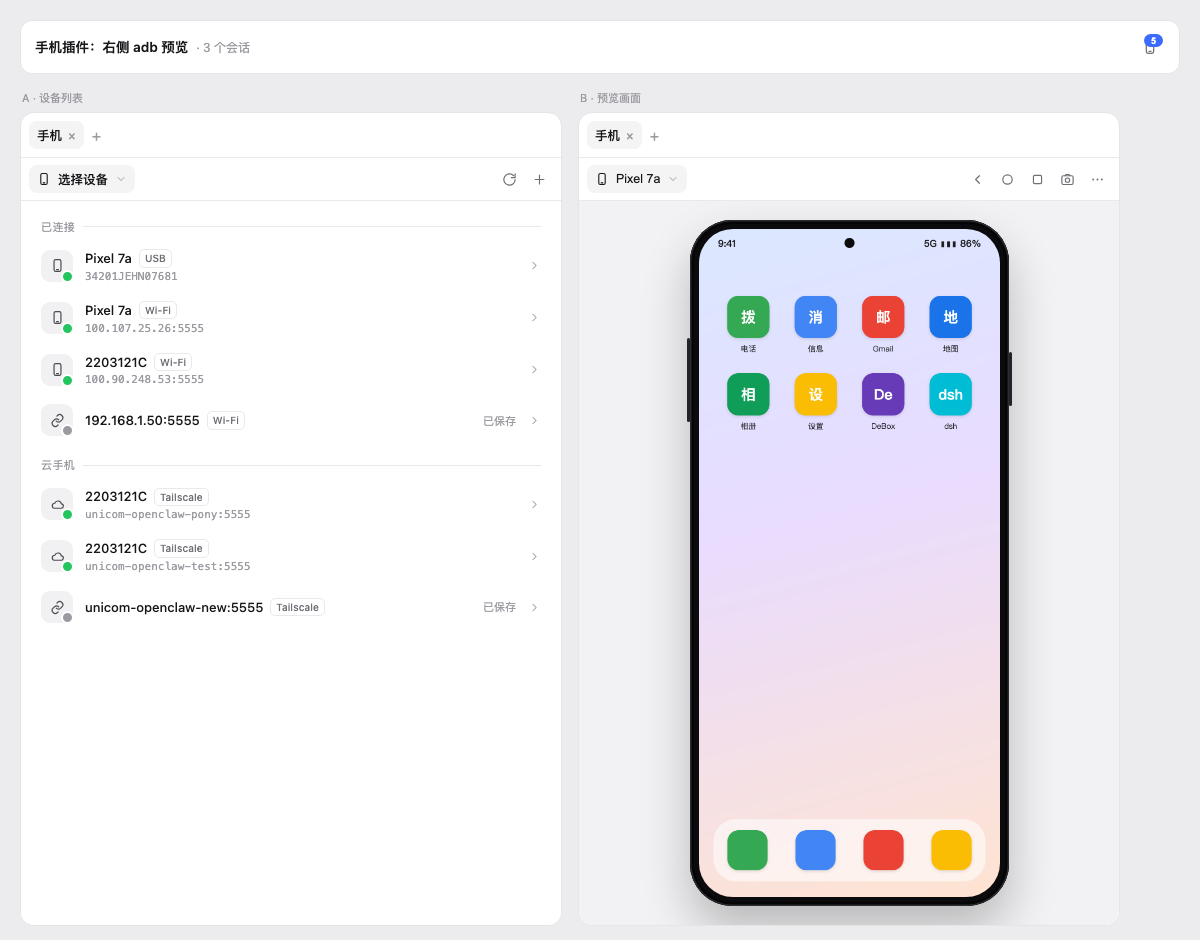
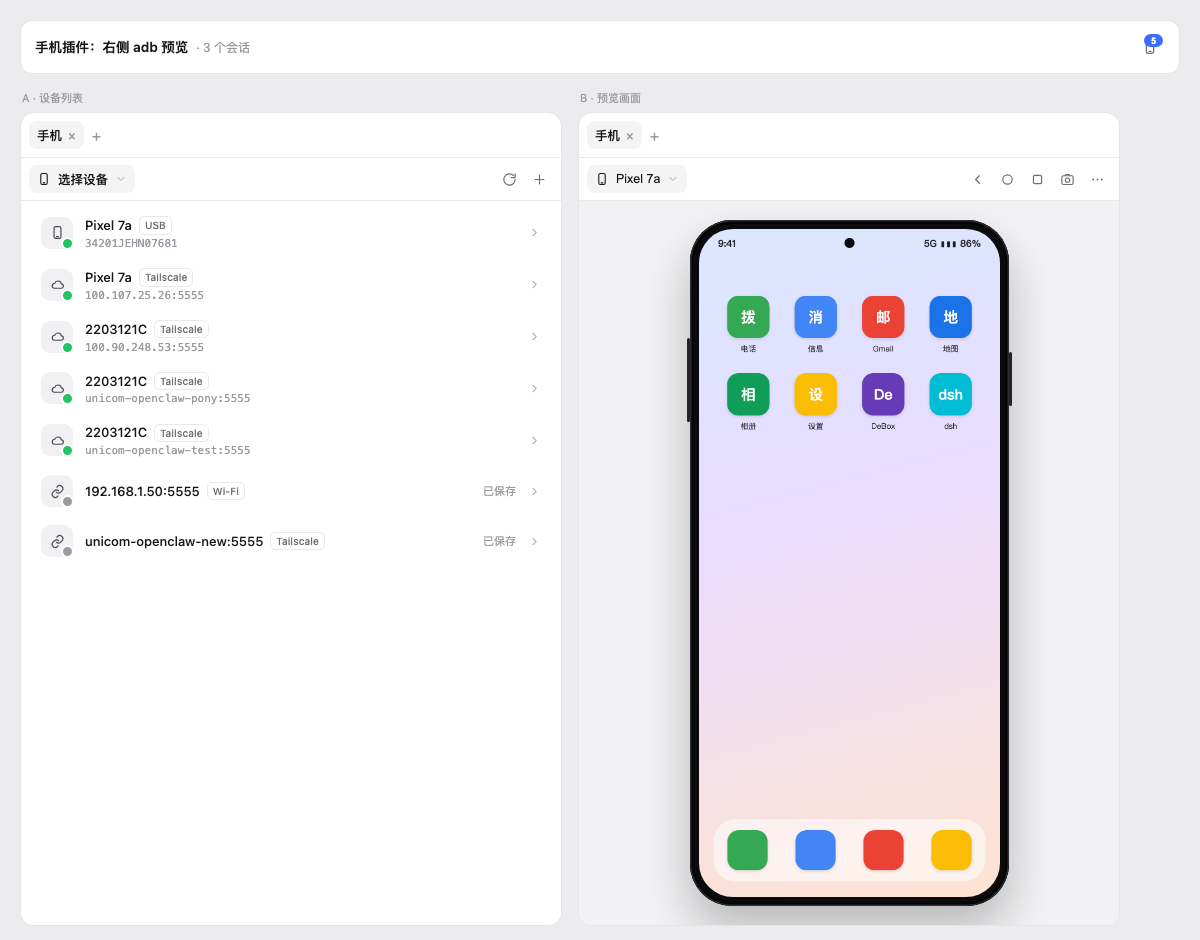
refactor(ui): 设备列表改为平铺，不再按云手机分组
- classifyDevice 的 cloud 改为 tailscale（unicom-openclaw-* / *.ts.net / 100.64.0.0/10）
- 列表只保留连接方式标签（USB / Wi-Fi / Tailscale / emulator），已连接在前、已保存在后
- 测试 fixture 与文档同步

diff --git a/lib/client.js b/lib/client.js
@@ -351,14 +351,14 @@ window.__ModuleLoader__.load({
     }
 
     function kindForAddress(address) {
-      if (/^unicom-openclaw-|\.ts\.net/.test(address)) return 'cloud'
-      if (/^100\.(6[4-9]|[7-9]\d|1[01]\d|12[0-7])\./.test(address)) return 'cloud'
+      if (/^unicom-openclaw-|\.ts\.net/.test(address)) return 'tailscale'
+      if (/^100\.(6[4-9]|[7-9]\d|1[01]\d|12[0-7])\./.test(address)) return 'tailscale'
       if (address.includes(':')) return 'wifi'
       return 'usb'
     }
 
-    function kindLabel(kind, t) {
-      if (kind === 'cloud') return 'Tailscale'
+    function kindLabel(kind) {
+      if (kind === 'tailscale') return 'Tailscale'
       if (kind === 'wifi') return 'Wi-Fi'
       if (kind === 'emulator') return 'emulator'
       return 'USB'
@@ -375,61 +375,50 @@ window.__ModuleLoader__.load({
     // ---------------------------------------------------------------- components
     function DeviceRows(props) {
       const { t, devices, selected, onSelect, compact } = props
-      const connected = devices.filter((device) => device.kind !== 'cloud')
-      const cloud = devices.filter((device) => device.kind === 'cloud')
-      const groups = [
-        { key: 'connected', label: t('connected'), items: connected },
-        { key: 'cloud', label: t('cloud'), items: cloud },
-      ].filter((group) => group.items.length > 0)
+      const order = { usb: 0, emulator: 1, wifi: 2, tailscale: 3 }
+      const sorted = [...devices].sort((a, b) => {
+        const bySaved = (a.saved ? 1 : 0) - (b.saved ? 1 : 0)
+        if (bySaved !== 0) return bySaved
+        return (order[a.kind] ?? 9) - (order[b.kind] ?? 9)
+      })
       return h(
         'div',
         { className: compact ? 'dph-menu-list' : 'dph-list' },
-        groups.map((group) =>
+        sorted.map((device) =>
           h(
-            'div',
-            { key: group.key },
-            h('div', { className: 'dph-group' }, group.label),
-            group.items.map((device) =>
-              h(
-                'button',
-                {
-                  key: device.serial,
-                  type: 'button',
-                  className: 'dph-row' + (device.serial === selected ? ' sel' : ''),
-                  onClick: () => onSelect(device),
-                },
-                h(
-                  'span',
-                  { className: 'dph-av' },
-                  h(Icon, { name: device.saved ? 'link' : device.kind === 'cloud' ? 'cloud' : 'phone', size: 15 }),
-                  h('span', {
-                    className:
-                      device.state === 'device'
-                        ? 'on'
-                        : device.state === 'unauthorized'
-                          ? 'on warn'
-                          : 'on off',
-                  }),
-                ),
-                h(
-                  'span',
-                  { className: 'dph-meta' },
-                  h(
-                    'span',
-                    { className: 'dph-model' },
-                    device.model,
-                    h('span', { className: 'dph-tag' }, kindLabel(device.kind, t)),
-                  ),
-                  device.serial && device.serial !== device.model
-                    ? h('span', { className: 'dph-serial' }, device.serial)
-                    : null,
-                ),
-                stateLabel(device.state, t)
-                  ? h('span', { className: 'dph-state' + (device.state === 'saved' ? ' saved' : '') }, stateLabel(device.state, t))
-                  : null,
-                h(Icon, { name: 'right', size: 13, className: 'dph-chev' }),
-              ),
+            'button',
+            {
+              key: device.serial,
+              type: 'button',
+              className: 'dph-row' + (device.serial === selected ? ' sel' : ''),
+              onClick: () => onSelect(device),
+            },
+            h(
+              'span',
+              { className: 'dph-av' },
+              h(Icon, { name: device.saved ? 'link' : device.kind === 'tailscale' ? 'cloud' : 'phone', size: 15 }),
+              h('span', {
+                className:
+                  device.state === 'device' ? 'on' : device.state === 'unauthorized' ? 'on warn' : 'on off',
+              }),
             ),
+            h(
+              'span',
+              { className: 'dph-meta' },
+              h(
+                'span',
+                { className: 'dph-model' },
+                device.model,
+                h('span', { className: 'dph-tag' }, kindLabel(device.kind)),
+              ),
+              device.serial && device.serial !== device.model
+                ? h('span', { className: 'dph-serial' }, device.serial)
+                : null,
+            ),
+            stateLabel(device.state, t)
+              ? h('span', { className: 'dph-state' + (device.state === 'saved' ? ' saved' : '') }, stateLabel(device.state, t))
+              : null,
+            h(Icon, { name: 'right', size: 13, className: 'dph-chev' }),
           ),
         ),
       )

diff --git a/lib/adb.js b/lib/adb.js
@@ -83,12 +83,12 @@ function isCgnatSerial(serial) {
   return first === 100 && second >= 64 && second <= 127
 }
 
-/** 按 serial / adb 属性给设备分类，客户端只做分组展示。 */
+/** 按 serial / adb 属性给设备标注连接方式，客户端只显示标签，不做分组。 */
 export function classifyDevice(serial, props = {}) {
   if (props.usb) return 'usb'
   if (/^emulator-\d+$/.test(serial)) return 'emulator'
-  if (/^unicom-openclaw-|\.ts\.net/.test(serial)) return 'cloud'
-  if (isCgnatSerial(serial)) return 'cloud'
+  if (/^unicom-openclaw-|\.ts\.net/.test(serial)) return 'tailscale'
+  if (isCgnatSerial(serial)) return 'tailscale'
   if (serial.includes(':')) return 'wifi'
   return 'usb'
 }

diff --git a/README.md b/README.md
@@ -13,13 +13,13 @@ DSH Web 插件：在右侧栏预览已连接的 Android 设备，点画面就是
 ## 功能
 
 - **会话头部手机图标**：点一下展开右侧栏，角标显示在线设备数。
-- **设备列表**：USB / Wi-Fi / 模拟器 / 云手机分组，状态点区分 `device` / `unauthorized` / `offline`。
+- **设备列表**：平铺一列，不按手机类型分组；每台只标连接方式（USB / Wi-Fi / Tailscale / emulator），状态点区分 `device` / `unauthorized` / `offline` / `已保存`。
 - **预览**：设备画面按右侧栏高度等比缩放，带机身 bezel；顶栏只有「设备下拉 + 返回/主页/多任务/截图/更多」。
 - **点按**：点击 = `tap`，拖拽 = `swipe`（坐标按截图实际像素换算）。
 - **连接**：`adb connect <ip>:<port>`（无线调试、Tailscale 云手机）；连接过的目标自动记到 `$DSH_HOME/phone/targets.json`，未连接时也显示在列表里，点一下就直接连。
 - **诊断**：`⋯ → adb 诊断` 看 adb 路径/版本、每台设备状态，一键复制。
 - **更多**：电源、旋转、重新连接、adb 诊断、浮窗打开、复制 serial、断开。
-- Tailscale 的 `100.64.0.0/10` 地址会归到「云手机」分组，不再混进 Wi-Fi。
+- 连接方式由 serial 判断：`usb:` 属性 → USB；`unicom-openclaw-*` 或 `100.64.0.0/10` → Tailscale；其余带端口 → Wi-Fi。
 - 没有分辨率/网速元数据栏，没有文字输入框。
 
 ## 安装

diff --git a/CHANGELOG.md b/CHANGELOG.md
@@ -11,6 +11,7 @@
 - Host：`/phone/*` 路由 + `connection.admit` 认证围栏；serial 白名单；execFile 无 shell
 - 常用连接目标：连接成功自动记录（`$DSH_HOME/phone/targets.json`，最近 12 条），未连接目标也显示在列表，点击直接 `adb connect`
 - `⋯ → adb 诊断`：adb 路径/版本、每台设备状态，可复制
-- 分类修正：`100.64.0.0/10`（Tailscale CGNAT）归到云手机分组
+- 列表改为平铺，不再按「云手机」分组；只保留连接方式标签（USB / Wi-Fi / Tailscale / emulator）
+- Tailscale 判定：`unicom-openclaw-*`、`*.ts.net`、`100.64.0.0/10`
 - 真机验证：Pixel 7a 上 tap / swipe / 返回 / 主页 均已实测（点开「网络和互联网」「关于本机」，列表滚动）
 - 测试：`npm run smoke`（含 targets 存储）、`scripts/render-test.mjs`（列表/预览/浮窗/诊断四种状态）
